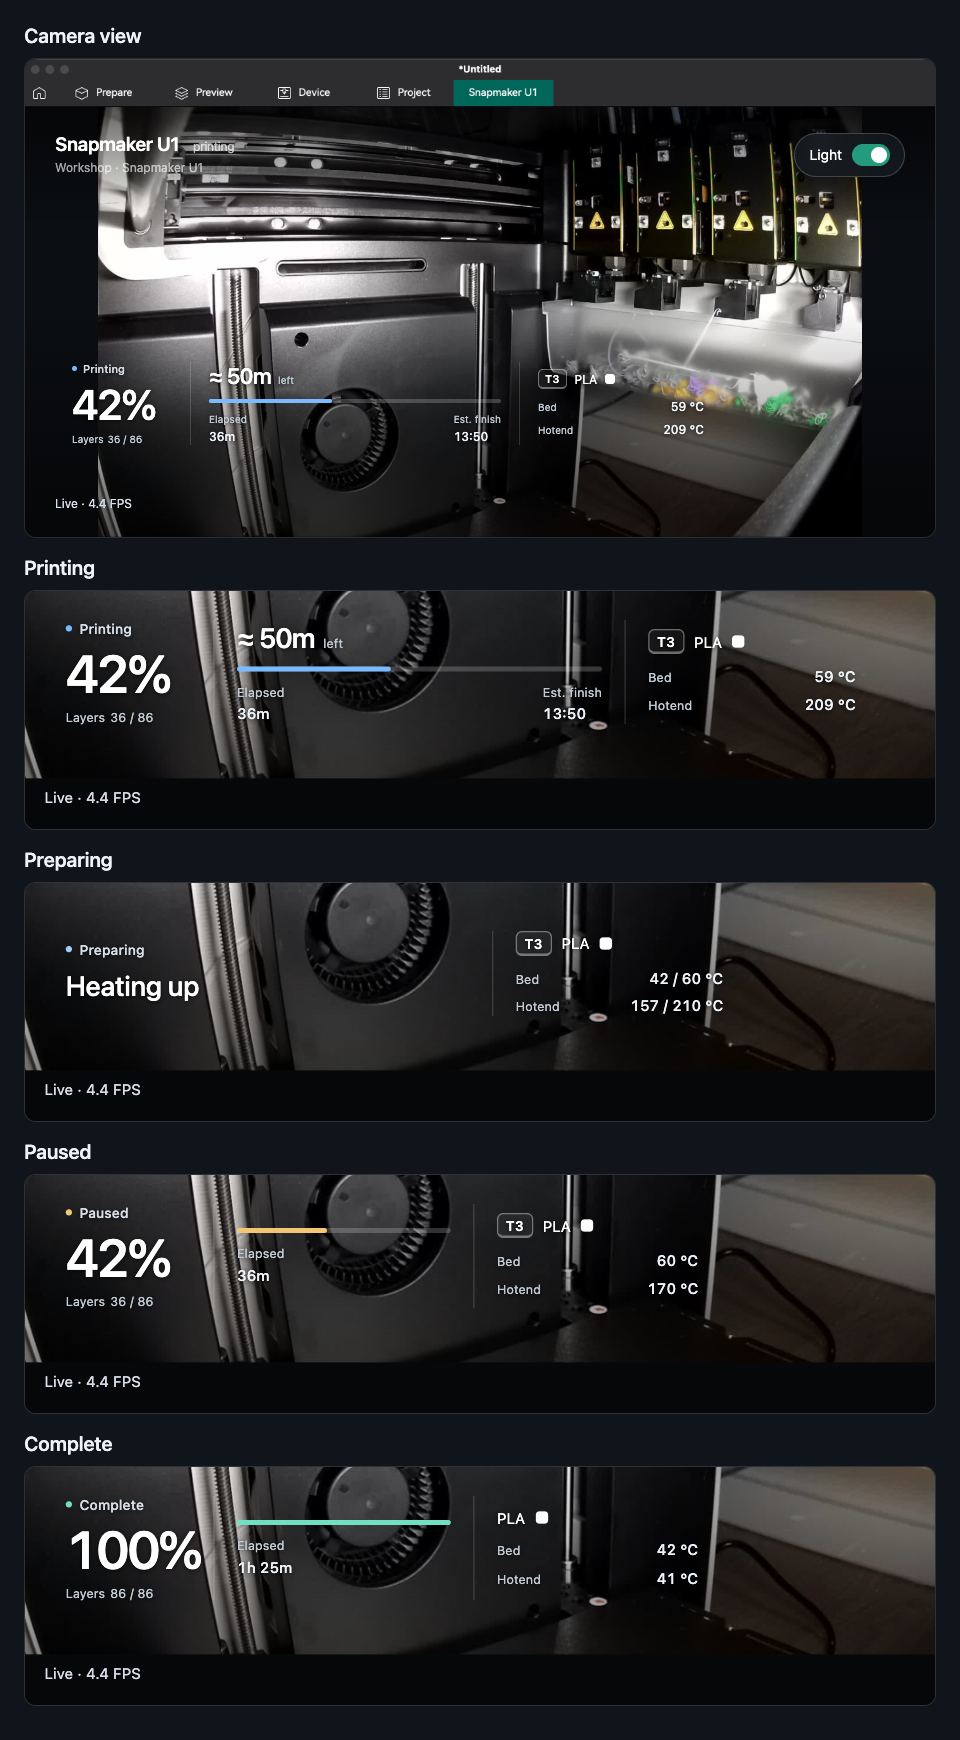
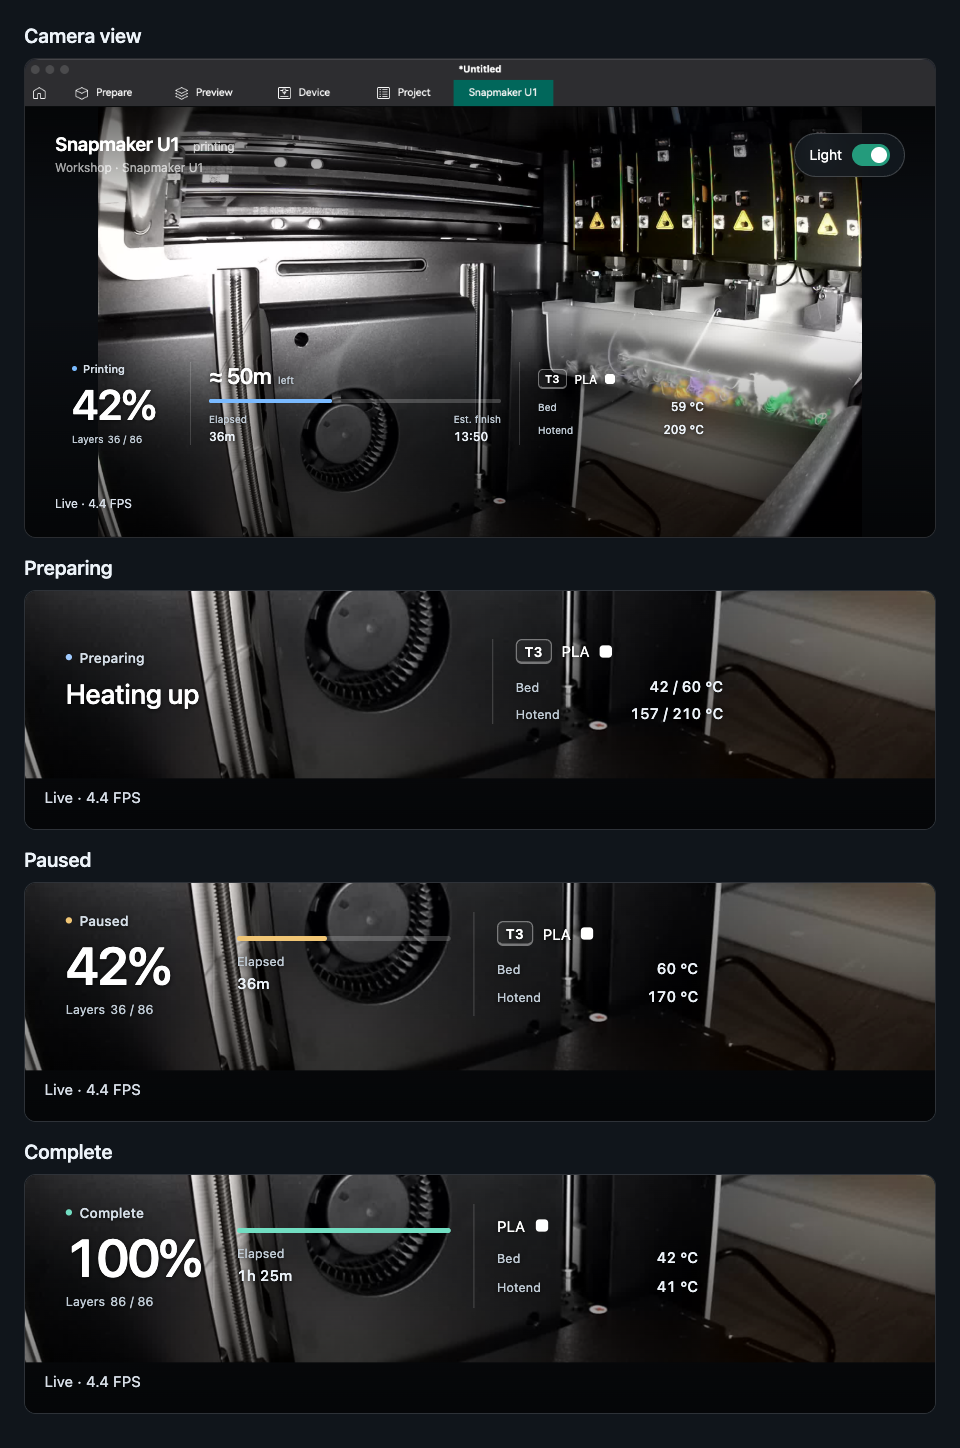
docs: remove duplicate Printing screenshot crop

diff --git a/scripts/prepare_screenshots.py b/scripts/prepare_screenshots.py
@@ -148,10 +148,10 @@ Press <b>H</b> to toggle the stats background, or <b>?</b> for help.</p>
     entry.write_text(index)
     tiles = "".join('<section><h2>' + state.title() + '</h2><div class="crop"><iframe title="' +
                     state.title() + ' statistics" src="' + state + '.html"></iframe></div></section>'
-                    for state in STATES)
+                    for state in STATES[1:])
     (output / "showcase.html").write_text('''<!doctype html><html lang="en"><head><meta charset="utf-8">
 <title>Snapmaker U1 · Camera and print states</title><style>
-* { box-sizing:border-box; } html,body { margin:0; width:960px; height:1740px; overflow:hidden; }
+* { box-sizing:border-box; } html,body { margin:0; width:960px; height:1448px; overflow:hidden; }
 body { padding:24px; background:#10151b; color:#edf3f9; font:18px system-ui; display:flex; flex-direction:column; gap:18px; }
 section { display:flex; flex-direction:column; gap:10px; flex:none; }
 h2 { margin:0; font-size:20px; line-height:24px; font-weight:550; }
@@ -177,7 +177,7 @@ def export_showcase(directory, destination):
         result = subprocess.run([
             browser, "--headless", "--no-first-run", "--no-default-browser-check",
             "--disable-background-networking", "--disable-sync", "--hide-scrollbars",
-            "--user-data-dir=" + profile, "--window-size=960,1740", "--force-device-scale-factor=1",
+            "--user-data-dir=" + profile, "--window-size=960,1448", "--force-device-scale-factor=1",
             "--virtual-time-budget=4000", "--screenshot=" + str(destination),
             (Path(directory).resolve() / "showcase.html").as_uri(),
         ], capture_output=True, text=True, timeout=45)

diff --git a/docs/development.md b/docs/development.md
@@ -60,5 +60,5 @@ python scripts/prepare_screenshots.py --export docs/images/snapmaker-u1-states.p
 ```
 
 PNG export uses an installed Chrome or Chromium with an isolated temporary profile.
-The generated `dist/screenshots/showcase.html` shows one full camera view and enlarged crops of the four state strips.
+The generated `dist/screenshots/showcase.html` shows Printing in one full camera view, followed by enlarged Preparing, Paused, and Complete strips.
 This keeps the tab visible while making the statistics readable at README width.

diff --git a/README.md b/README.md
@@ -6,7 +6,7 @@
 
 A dedicated Snapmaker U1 tab with a full-viewport camera, printer status, and a chamber light toggle.
 
-![Snapmaker U1 camera tab with enlarged Printing, Preparing, Paused, and Complete statistics](docs/images/snapmaker-u1-states.png)
+![Snapmaker U1 camera tab in Printing, with enlarged Preparing, Paused, and Complete statistics](docs/images/snapmaker-u1-states.png)
 
 *Simulated Orca views with fixed sample data.*
 
